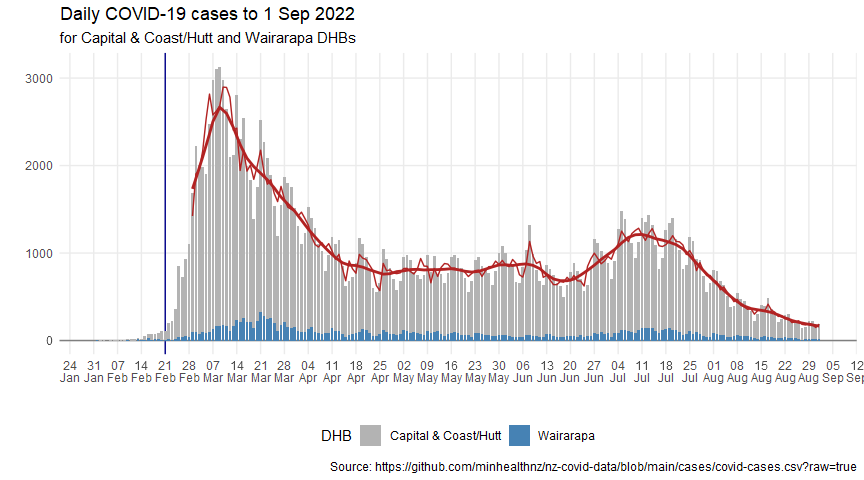
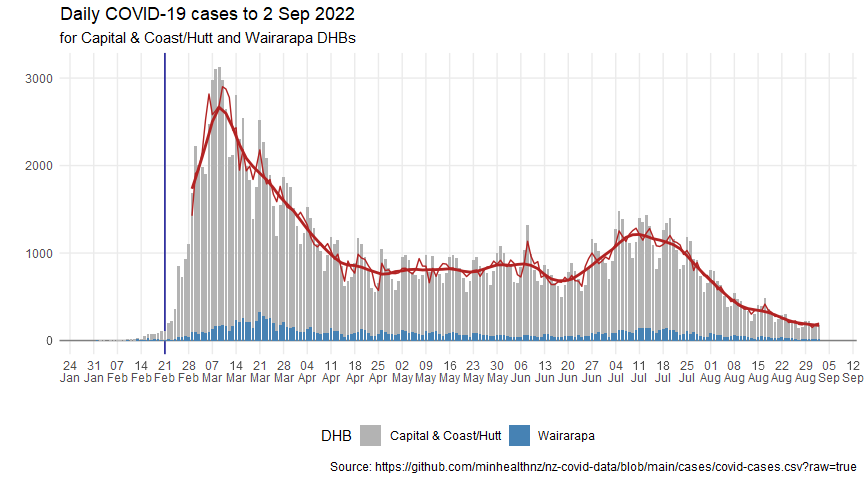
Update for 20220903

diff --git a/covid-post-peak-analysis.md b/covid-post-peak-analysis.md
@@ -34,7 +34,7 @@ cases_df <- read_csv(case_data_url) %>%
   clean_names()
 ```
 
-    ## Rows: 1744937 Columns: 7
+    ## Rows: 1746640 Columns: 7
     ## ── Column specification ────────────────────────────────────────────────────────
     ## Delimiter: ","
     ## chr  (5): Case Status, Sex, Age group, DHB, Overseas travel
@@ -51,7 +51,7 @@ cases_by_dhb_df <- cases_df %>%
   count(report_date, dhb, case_status)
 ```
 
-## Wellington figures up to 1 Sep 2022
+## Wellington figures up to 2 Sep 2022
 
 Including Hutt and Wairarapa as well as CCDHB.
 
@@ -174,8 +174,8 @@ maxima <- dhb_cases_after_transform_stl_df %>%
 Looking at raw case numbers, the peak on 9 Mar 2022 was about 22.5 times
 the lowest recent value.
 
-But when adjusting for the weekly pattern, it was 19.5 times the lowest
-recent adjusted value, and the trend was about 16.1 times the lowest
+But when adjusting for the weekly pattern, it was 19.4 times the lowest
+recent adjusted value, and the trend was about 15.4 times the lowest
 recent trend line.
 
 While the trend might be over-smoothed, the peak coincinded with the
